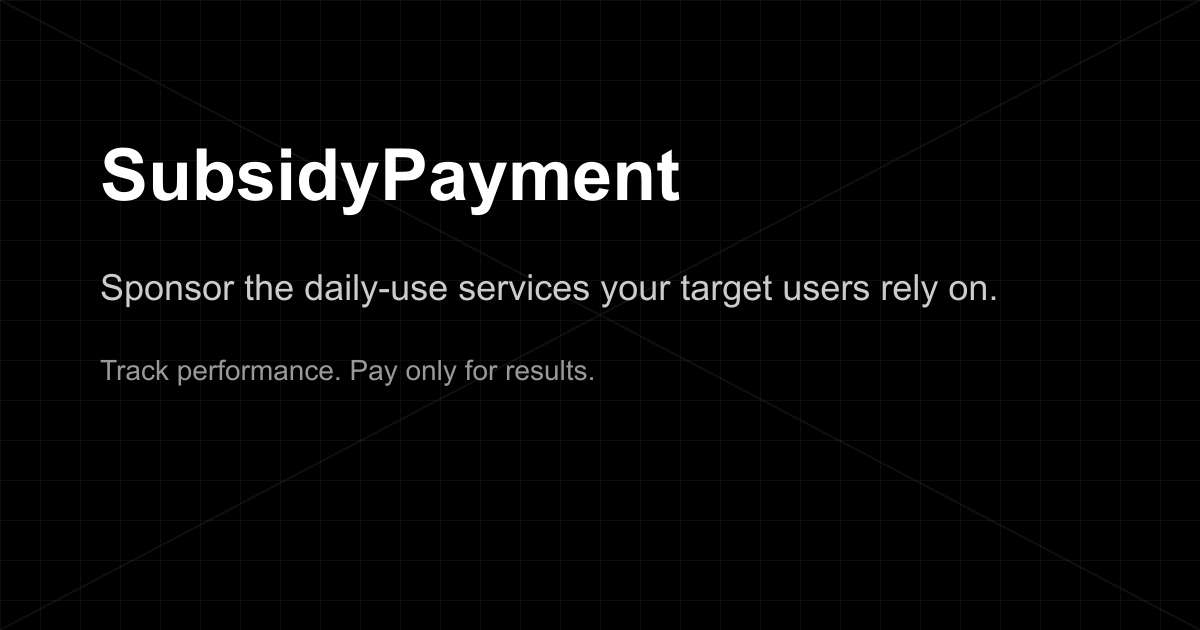
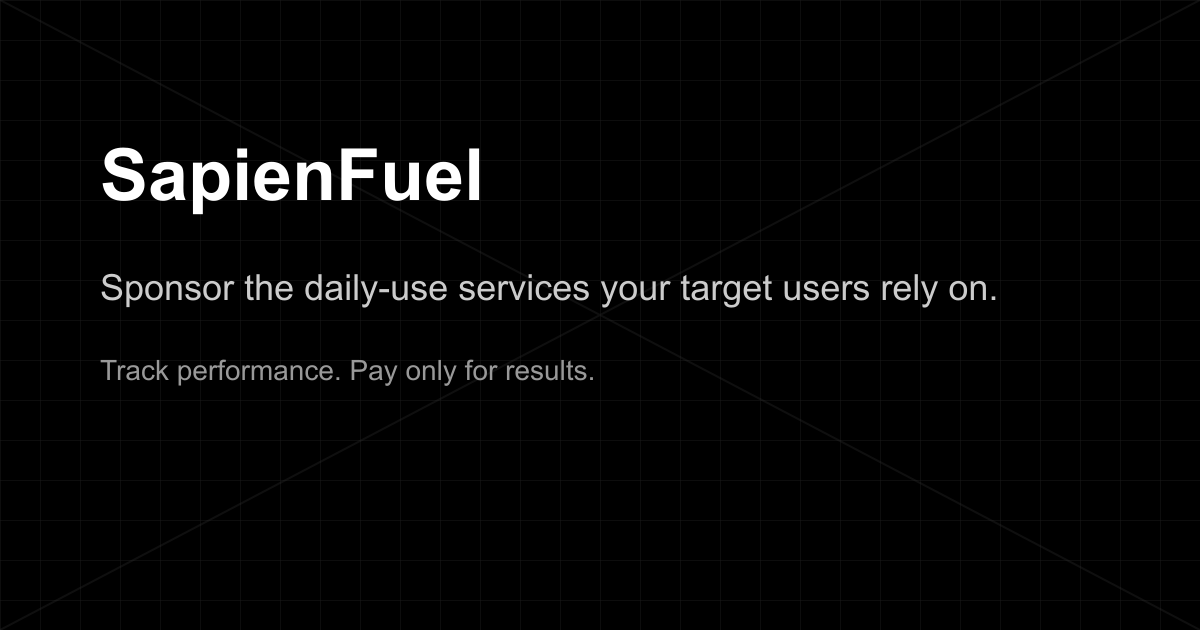
feat: change name

Changed region(s): [[0.1233, 0.2111, 0.5858, 0.3619]]

diff --git a/frontend/index.html b/frontend/index.html
@@ -5,25 +5,25 @@
     <meta name="viewport" content="width=device-width, initial-scale=1.0" />
     
     <!-- Primary Meta Tags -->
-    <title>SnapFuel - Sponsor API calls for developers</title>
-    <meta name="title" content="SnapFuel - Sponsor API calls for developers" />
+    <title>SapienFuel - Sponsor API calls for developers</title>
+    <meta name="title" content="SapienFuel - Sponsor API calls for developers" />
     <meta name="description" content="Sponsor the daily-use services your target users rely on. Track performance. Pay only for results. Reduce the cost of paid services to zero through sponsored campaigns." />
     
     <!-- Open Graph / Facebook -->
     <meta property="og:type" content="website" />
     <meta property="og:url" content="https://subsidy-payment.vercel.app/" />
-    <meta property="og:title" content="SnapFuel - Sponsor API calls for developers" />
+    <meta property="og:title" content="SapienFuel - Sponsor API calls for developers" />
     <meta property="og:description" content="Sponsor the daily-use services your target users rely on. Track performance. Pay only for results. Reduce the cost of paid services to zero through sponsored campaigns." />
     <meta property="og:image" content="https://subsidy-payment.vercel.app/og-image-v2.png" />
     <meta property="og:image:type" content="image/png" />
     <meta property="og:image:width" content="1200" />
     <meta property="og:image:height" content="630" />
-    <meta property="og:site_name" content="SnapFuel" />
+    <meta property="og:site_name" content="SapienFuel" />
     
     <!-- Twitter -->
     <meta name="twitter:card" content="summary_large_image" />
     <meta name="twitter:url" content="https://subsidy-payment.vercel.app/" />
-    <meta name="twitter:title" content="SnapFuel - Sponsor API calls for developers" />
+    <meta name="twitter:title" content="SapienFuel - Sponsor API calls for developers" />
     <meta name="twitter:description" content="Sponsor the daily-use services your target users rely on. Track performance. Pay only for results." />
     <meta name="twitter:image" content="https://subsidy-payment.vercel.app/og-image-v2.png" />
     

diff --git a/frontend/scripts/generate-og-image.js b/frontend/scripts/generate-og-image.js
@@ -87,7 +87,7 @@ const ogImageHTML = `<!DOCTYPE html>
   <div class="grid"></div>
   <div class="radial-lines"></div>
   <div class="content">
-    <h1>SnapFuel</h1>
+    <h1>SapienFuel</h1>
     <div class="subtitle">Sponsor the daily-use services your target users rely on.</div>
     <div class="description">Track performance. Pay only for results.</div>
   </div>
@@ -121,7 +121,7 @@ const ogImageSVG = `<svg width="1200" height="630" xmlns="http://www.w3.org/2000
     <line x1="600" y1="315" x2="0" y2="630" stroke="#333333" stroke-width="2"/>
   </g>
   <g transform="translate(100, 200)">
-    <text x="0" y="0" class="title">SnapFuel</text>
+    <text x="0" y="0" class="title">SapienFuel</text>
     <text x="0" y="100" class="subtitle">Sponsor the daily-use services your target users rely on.</text>
     <text x="0" y="180" class="description">Track performance. Pay only for results.</text>
   </g>
@@ -129,4 +129,3 @@ const ogImageSVG = `<svg width="1200" height="630" xmlns="http://www.w3.org/2000
 
 fs.writeFileSync(path.join(publicDir, 'og-image.svg'), ogImageSVG);
 console.log('OGP image (SVG) generated successfully!');
-
